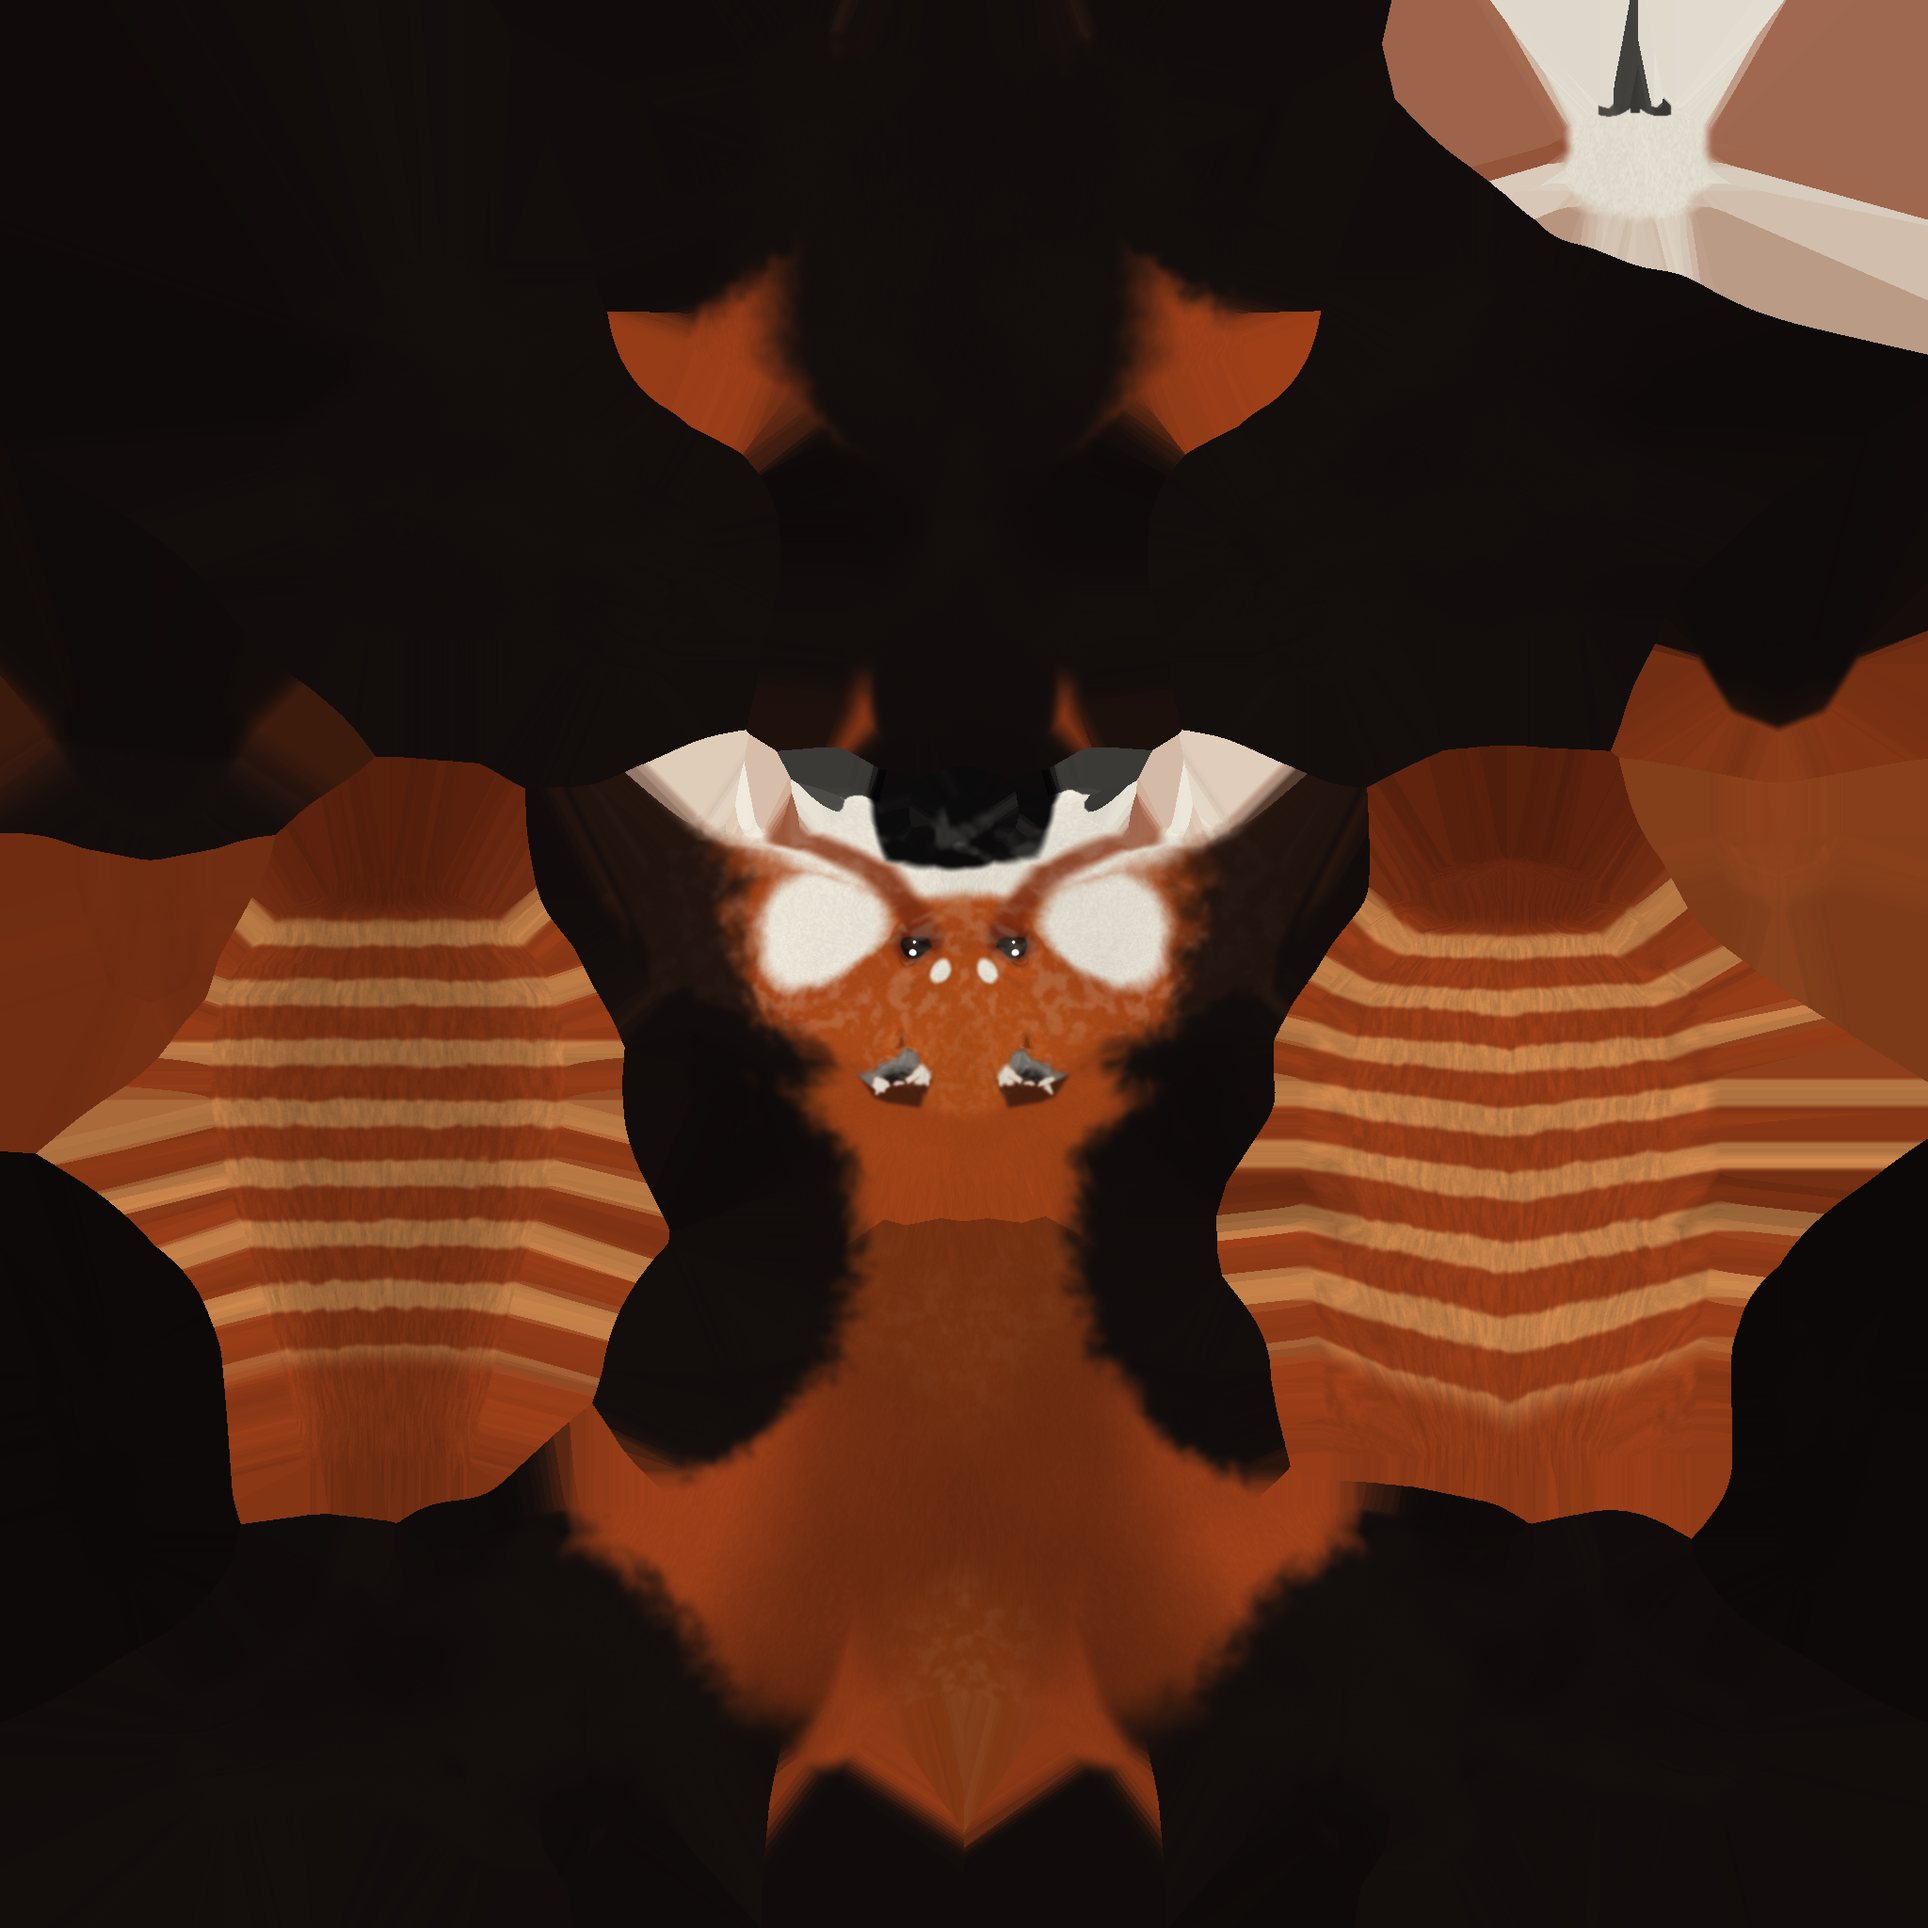
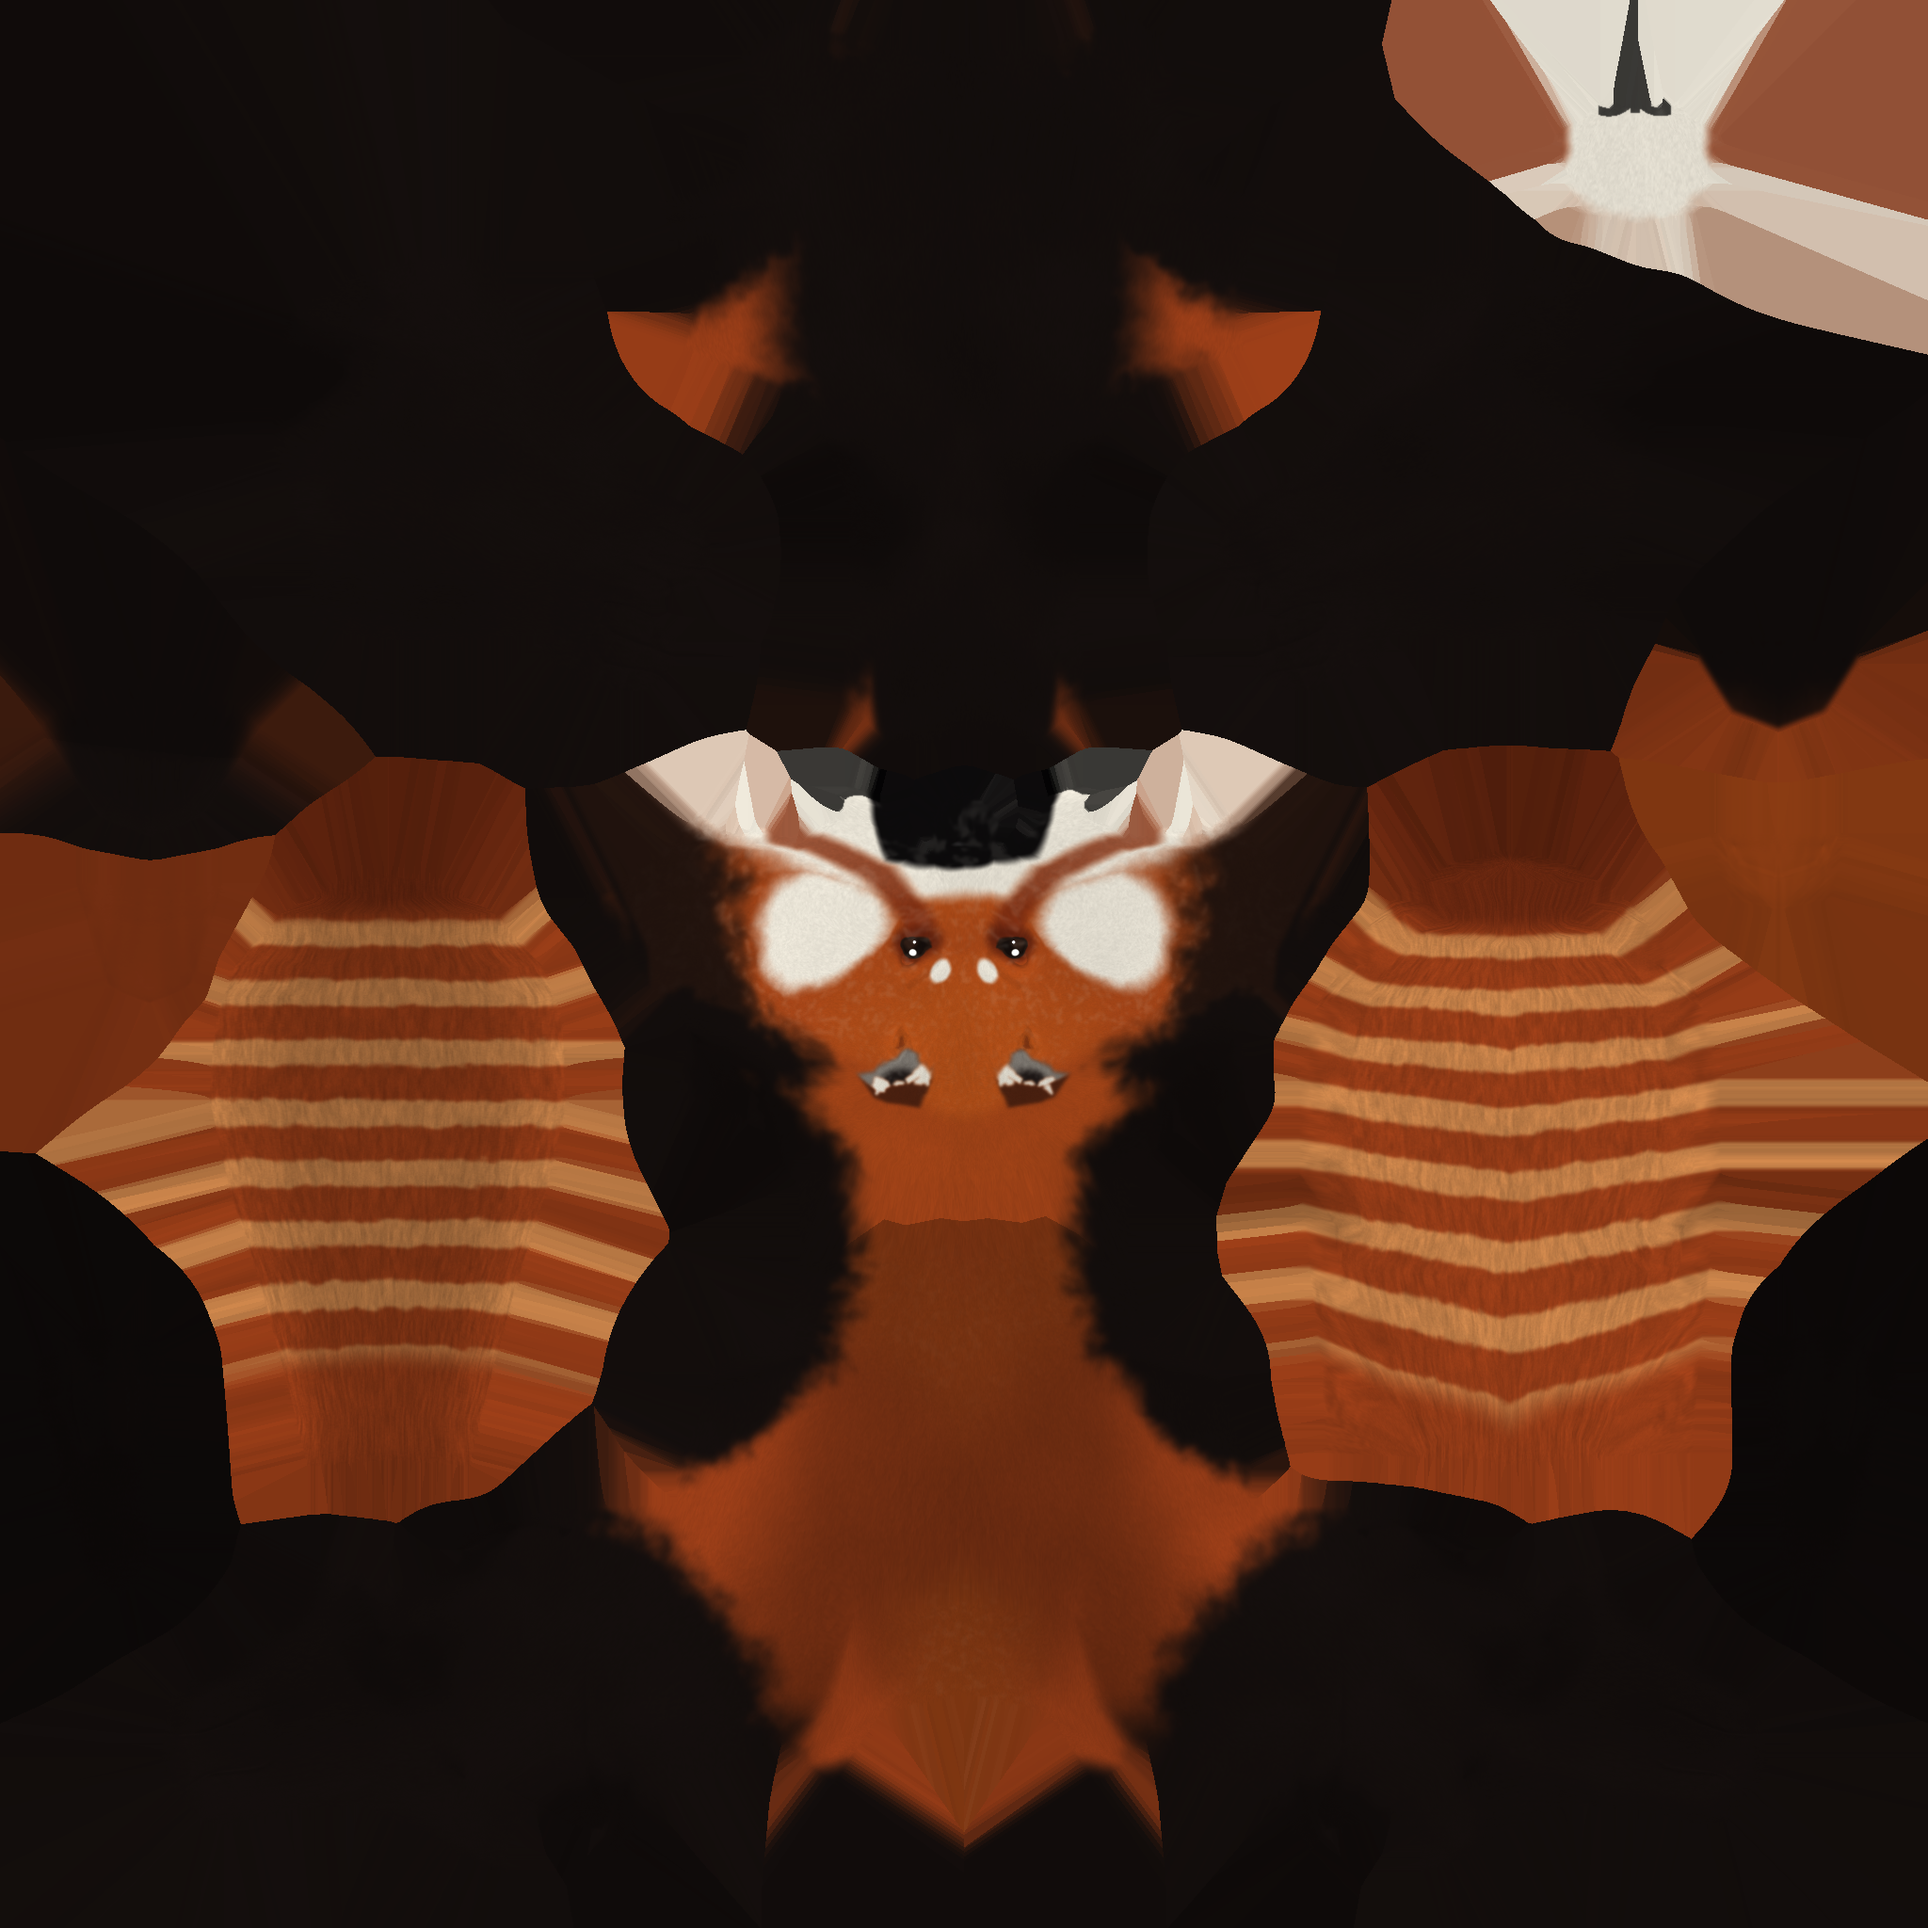
Ringtail coats: dark hind legs to the hip, subtler frost; probe shots by hour of day

diff --git a/src/pipeline/characters/paint_ringtail.py b/src/pipeline/characters/paint_ringtail.py
@@ -127,7 +127,7 @@ class RingtailPainter(paint.Painter):
         reach = var.get('arm_reach', 0.075) - var.get('arm_back_trim', 0.035) * smoothstep(0.0, -0.6, N[..., 2])
         arms = 1 - smoothstep(reach - 0.015, reach + 0.015, darm + jag * 1.5)
         dsole = r['dsole'][..., 0]
-        lr = var.get('leg_reach', 0.17)
+        lr = var.get('leg_reach', 0.20)
         legs = 1 - smoothstep(lr - 0.02, lr + 0.02, dsole + jag * 1.6)
         legs = np.maximum(legs, r['sole'][..., 0])
         under = smoothstep(-0.05, -0.45, N[..., 1] + jag * 6) * (head < 0.45)
@@ -234,7 +234,7 @@ class RingtailPainter(paint.Painter):
         if var.get('frost', 0) > 0:     # an older individual: grizzled muzzle and brow, frosted crown and shoulders
             where = np.maximum((head[..., 0] > 0.5) * smoothstep(0.0, 0.6, N[..., 2]), 0.5 * smoothstep(0.3, 0.9, N[..., 1]))
             where *= (1 - tail) * (1 - rm['dark'])
-            g = smoothstep(0.1, 0.6, fbm(P * 120, 3, var.get('seed', 0) + 5) + 0.25) * where
+            g = smoothstep(0.2, 0.7, fbm(P * 260, 2, var.get('seed', 0) + 5) + 0.25) * where
             col = col + var['frost'] * ndimage.gaussian_filter(g, 1.0)[..., None] * (white - col)
         pa = ndimage.gaussian_filter(self.ao, 6)
         ba = ndimage.gaussian_filter(self.beaver_ao, 6)
@@ -276,7 +276,7 @@ ADULT_COATS = [
          tear_col=(0.42, 0.16, 0.06), tear_w=0.17, tip_dark=0.45, ear_tuft=0.8),
     # an older individual: frosted muzzle, dusky back, nine fine rings
     dict(name=4, seed=44, red=(0.55, 0.22, 0.085), dark=(0.07, 0.05, 0.045), white=(0.86, 0.84, 0.79),
-         ring_col=(0.76, 0.52, 0.30), rings=8, ring_width=0.40, ring_contrast=0.85, back_deep=0.26, frost=0.18,
+         ring_col=(0.76, 0.52, 0.30), rings=8, ring_width=0.40, ring_contrast=0.85, back_deep=0.26, frost=0.10,
          cheek=(1.52, -0.02, 0.76, 0.60), tear_w=0.22),
     # rare cinnamon: light, sandy-red with brown (not black) legs
     dict(name=5, seed=45, red=(0.76, 0.46, 0.24), dark=(0.30, 0.17, 0.10), white=(0.95, 0.93, 0.88),
@@ -328,7 +328,7 @@ def main():
             continue
         var = dict(style, **v)
         if kind == 'child':
-            var.setdefault('arm_reach', 0.075); var.setdefault('leg_reach', 0.17); var.setdefault('neck_y', 0.345)
+            var.setdefault('arm_reach', 0.075); var.setdefault('leg_reach', 0.20); var.setdefault('neck_y', 0.345)
         nm = f"Ringtail{'Adult' if kind == 'adult' else 'Child'}Coat{v['name']}.png"
         pt.paint_ringtail(var, beaver_tex, os.path.join(a.outdir, nm), out_size)
         print('painted', nm)

diff --git a/proto/ringtail-body/src/RingtailBodyProbe.cs b/proto/ringtail-body/src/RingtailBodyProbe.cs
@@ -97,6 +97,23 @@ namespace Pandaborn.RingtailBody
                 var s = _pending[i];
                 float due = (s["day"]?.Value<float>() ?? 0f) * 24f + (s["hour"]?.Value<float>() ?? 0f);
                 if (run < due) continue;
+                if (s["window"] is JArray window && window.Count == 2)
+                {
+                    // [from, to] hours after dawn: wait for the window; inside it, wait for a carrying Ringtail until
+                    // 0.5 h before its end, then take the picture anyway
+                    float h = _dayNightCycle.HoursPassedToday, from = window[0].Value<float>(), to = window[1].Value<float>();
+                    if (h < from || h >= to) continue;
+                    if ((string)s["prefer"] == "carrying" && h < to - 0.5f && !Ringtails().Any(IsCarrying)) continue;
+                    _pending.RemoveAt(i);
+                    try { Take(s); }
+                    catch (Exception e)
+                    {
+                        Debug.LogError("[Pandaborn.RingtailBody] shot " + s["name"] + " failed: " + e);
+                        _taken.Add(new JObject { ["name"] = s["name"], ["error"] = e.GetType().Name + ": " + e.Message });
+                    }
+                    Write();
+                    return;
+                }
                 bool night = s["night"]?.Value<bool>() ?? false;
                 if (night && !_dayNightCycle.IsNighttime && run < due + 20f) continue;
                 if (!night && (s["day_only"]?.Value<bool>() ?? false) && !_dayNightCycle.IsDaytime && run < due + 20f) continue;
@@ -202,7 +219,9 @@ namespace Pandaborn.RingtailBody
                 foreach (var (view, dir) in views)
                 {
                     float fov = 22f;
-                    float dist = (width * 0.5f + 0.25f) / Mathf.Tan(fov * 0.5f * Mathf.Deg2Rad);
+                    int w = s["width"]?.Value<int>() ?? 1600, h = s["height"]?.Value<int>() ?? 760;
+                    float halfH = Mathf.Atan(Mathf.Tan(fov * 0.5f * Mathf.Deg2Rad) * w / h);   // horizontal half-angle
+                    float dist = (width * 0.5f + 0.15f) / Mathf.Tan(halfH);
                     var position = focus + facing * dir.normalized * dist;
                     var rotation = Quaternion.LookRotation(focus - position, Vector3.up);
                     string file = Path.Combine(HarnessBridge.OutputDir, "rb_" + name + "_" + view + ".png");
